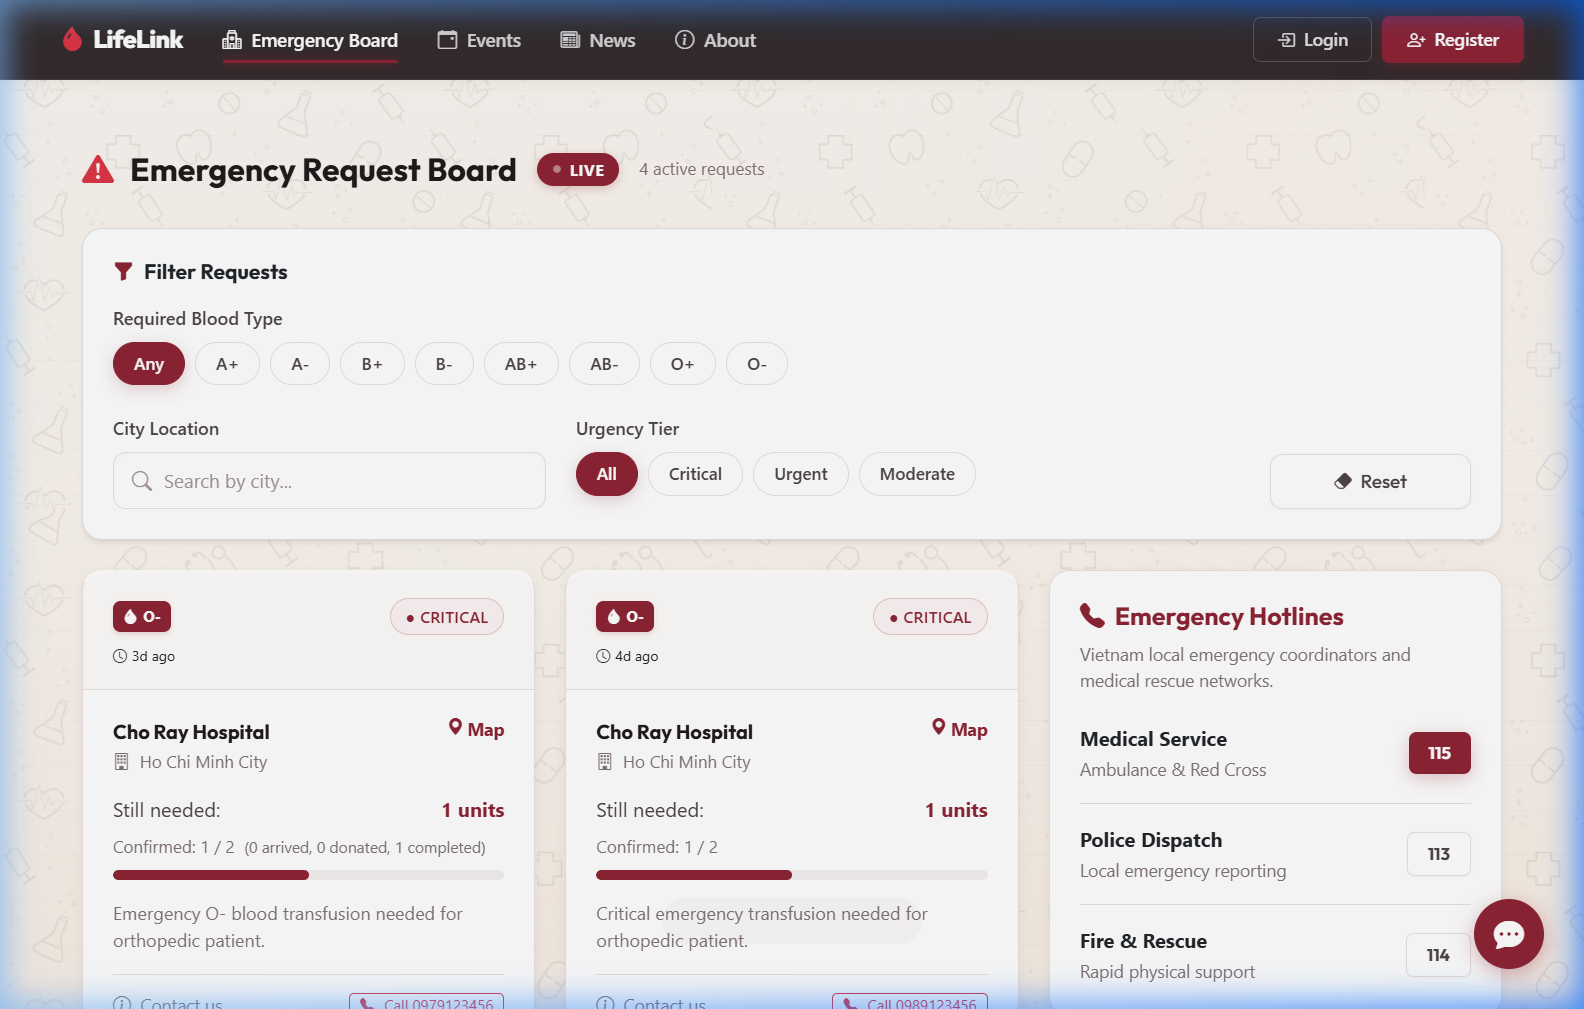
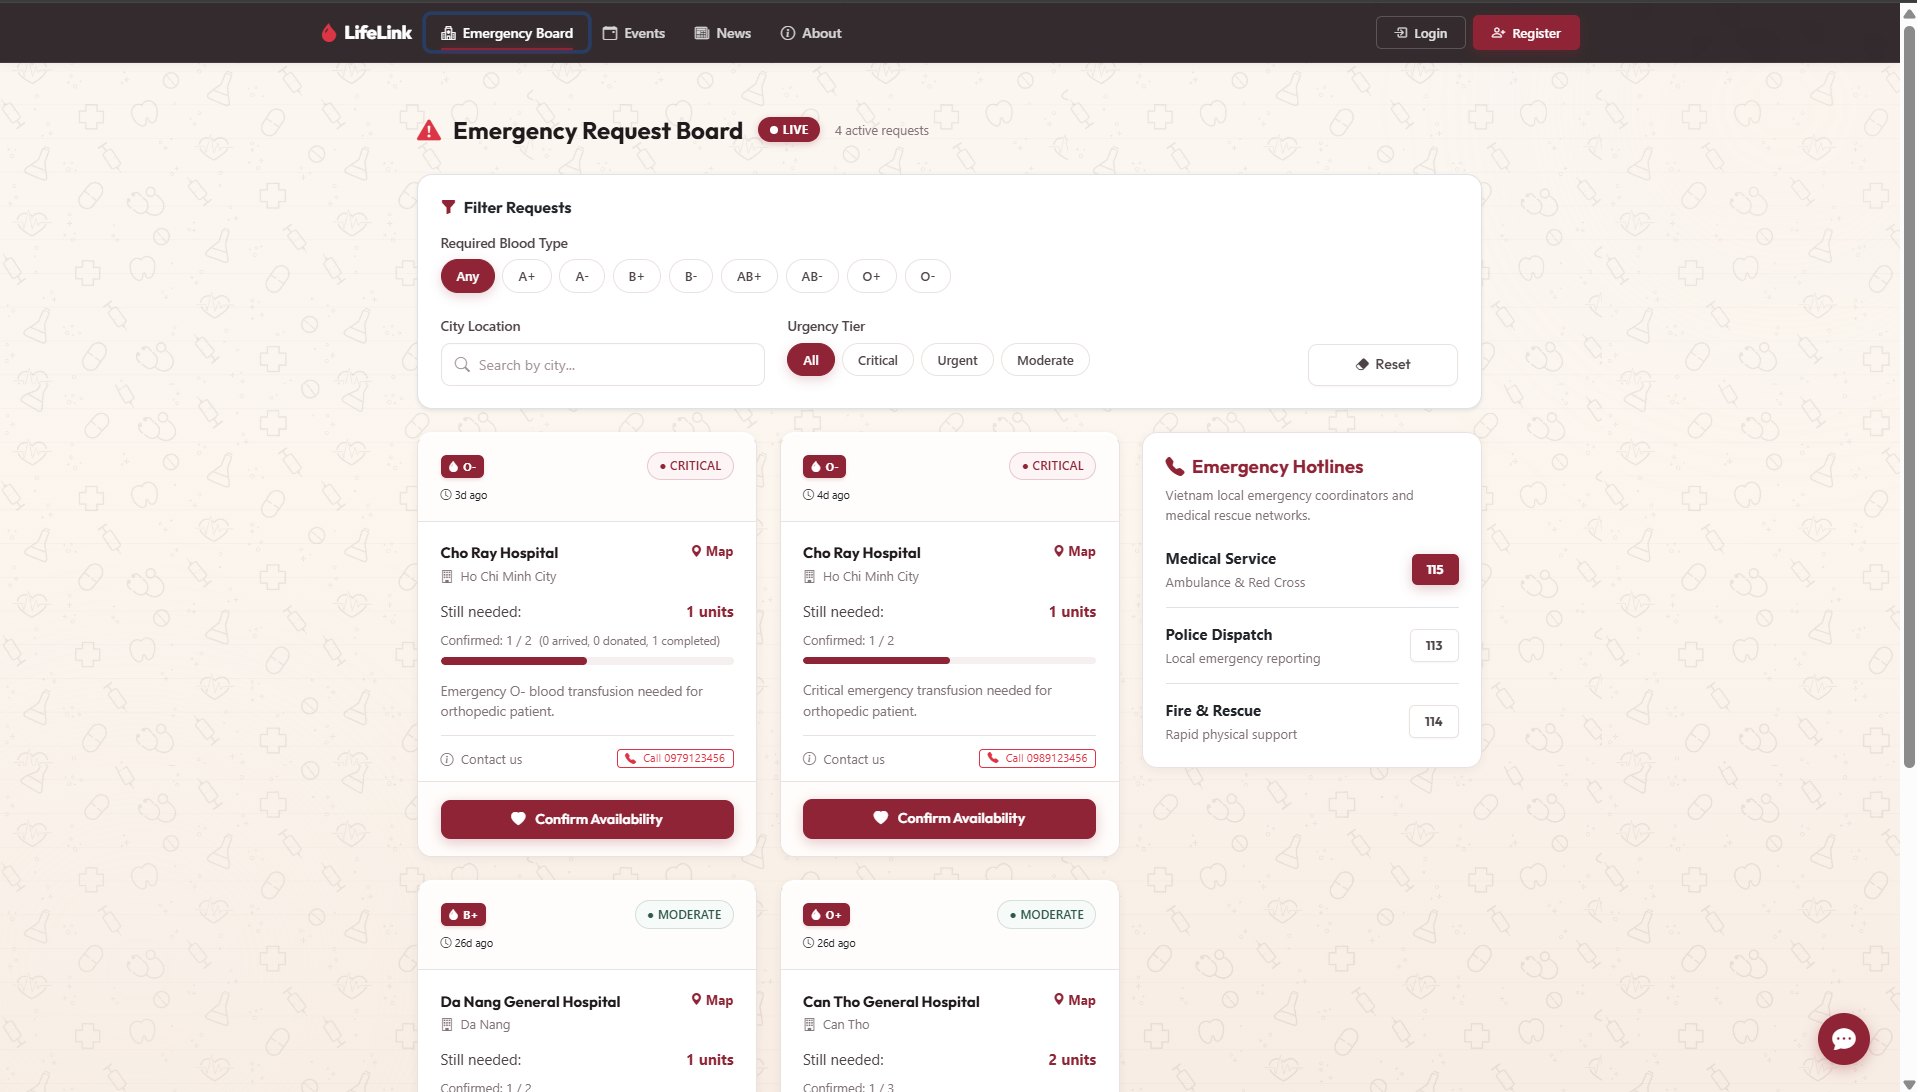
docs: update preview screenshots and gallery order in README

diff --git a/README.md b/README.md
@@ -11,18 +11,17 @@ The application is styled with a warm beige and deep crimson wine theme, focusin
 ### Home and Community Overview
 ![Homepage Hero](./docs/screenshots/homepage.png)
 
-### Emergency Request Board (Live Sync)
+### Emergency Request Board
 ![Emergency Board](./docs/screenshots/emergency_board.png)
+
+### Outreach Events
+![Outreach Events](./docs/screenshots/event_dashboard.png)
 
 ### Admin Operations Dashboard
 ![Admin Dashboard](./docs/screenshots/admin_dashboard.png)
 
-### Responsive Mobile Interface
-![Mobile View](./docs/screenshots/mobile_view.png)
-
-### Integrated Live Support & Custom Profiles
-![Support Chat](./docs/screenshots/support_chat.png)
-![Donor Profile](./docs/screenshots/profile.png)
+### Donor Dashboard
+![Donor Dashboard](./docs/screenshots/donor_dashboard.png)
 
 ---
 